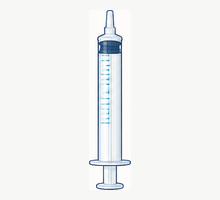
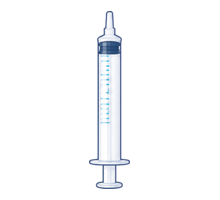
Polish syringe and favourites pagination

Changed region(s): [[0.4091, 0.03, 0.6, 0.96], [0.4909, 0.75, 0.5182, 0.78]]

diff --git a/src/App.svelte b/src/App.svelte
@@ -4,6 +4,7 @@
   import 'katex/dist/katex.min.css';
 
   const volumes = [10, 50, 100, 250, 500, 1000];
+  const favouritesPerPage = 6;
   const baseUrl = import.meta.env.BASE_URL;
   const storageKeys = {
     favourites: 'dosage.favourites.v2',
@@ -90,6 +91,11 @@
     String(favourite.medicationAmount) === String(medicationAmount) &&
     favourite.vialUnit === vialUnit &&
     String(favourite.vialVolume) === String(vialVolume)
+  );
+  $: favouritePageCount = Math.max(1, Math.ceil(favourites.length / favouritesPerPage));
+  $: visibleFavourites = favourites.slice(
+    favouritePage * favouritesPerPage,
+    (favouritePage + 1) * favouritesPerPage
   );
 
   onMount(() => {
@@ -198,7 +204,7 @@
     const next = favourites.filter((item) => item.id !== currentFavourite.id);
     if (write(storageKeys.favourites, next)) {
       favourites = next;
-      favouritePage = Math.min(favouritePage, Math.max(0, next.length - 1));
+      favouritePage = Math.min(favouritePage, Math.max(0, Math.ceil(next.length / favouritesPerPage) - 1));
       notice = 'Favourite removed from this phone.';
     }
   }
@@ -222,7 +228,7 @@
     const next = favourites.filter((item) => item.id !== id);
     if (write(storageKeys.favourites, next)) {
       favourites = next;
-      favouritePage = Math.min(favouritePage, Math.max(0, next.length - 1));
+      favouritePage = Math.min(favouritePage, Math.max(0, Math.ceil(next.length / favouritesPerPage) - 1));
     }
   }
 
@@ -490,8 +496,7 @@
           </div>
         {:else}
           <ul class="saved-list" aria-label="Saved favourites">
-            {#each favourites as favourite, index}
-              {#if index === favouritePage}
+            {#each visibleFavourites as favourite}
               <li>
                 <div>
                   <strong>{favourite.name}</strong>
@@ -502,14 +507,15 @@
                   <button class="danger-text" type="button" aria-label={`Delete ${favourite.name}`} onclick={() => deleteFavourite(favourite.id)}>Delete</button>
                 </div>
               </li>
-              {/if}
             {/each}
           </ul>
-          <div class="pager" aria-label="Favourite pages">
-            <button type="button" disabled={favouritePage === 0} onclick={() => favouritePage -= 1}>Previous</button>
-            <span>{favouritePage + 1} of {favourites.length}</span>
-            <button type="button" disabled={favouritePage === favourites.length - 1} onclick={() => favouritePage += 1}>Next</button>
-          </div>
+          {#if favouritePageCount > 1}
+            <div class="pager" aria-label="Favourite pages">
+              <button type="button" disabled={favouritePage === 0} onclick={() => favouritePage -= 1}>Previous</button>
+              <span>Page {favouritePage + 1} of {favouritePageCount}</span>
+              <button type="button" disabled={favouritePage === favouritePageCount - 1} onclick={() => favouritePage += 1}>Next</button>
+            </div>
+          {/if}
         {/if}
       </section>
     {:else}
@@ -800,7 +806,10 @@
   main > section:not(.mix-screen) .intro { flex: 0 0 auto; margin: 3px 0 9px; }
   .empty-state { min-height: 0; padding: 24px 12px; border-radius: 12px; }
   .saved-list, .history-list { min-height: 0; gap: 0; }
+  .saved-list { gap: 5px; }
   .saved-list li, .history-list li { padding: 12px; border-radius: 12px; }
+  .saved-list li > div:first-child { min-width: 0; }
+  .saved-list strong, .saved-list li > div:first-child span { overflow: hidden; text-overflow: ellipsis; white-space: nowrap; }
   .history-list p { margin: 10px 0 6px; }
   .pager { display: grid; grid-template-columns: 1fr auto 1fr; gap: 8px; align-items: center; margin-top: 8px; }
   .pager button { min-height: 44px; color: #076d69; background: #fff; border: 1px solid #72aaa5; border-radius: 9px; font-weight: 800; cursor: pointer; }

diff --git a/tests/e2e/003-local-records/003-local-records.spec.ts b/tests/e2e/003-local-records/003-local-records.spec.ts
@@ -81,5 +81,47 @@ test('favourites and history stay local without carrying an order forward', asyn
     ]
   });
 
+  const favouriteFixtures = Array.from({ length: 7 }, (_, index) => ({
+    id: `favourite-${index + 1}`,
+    name: `Saved medication ${index + 1}`,
+    medicationAmount: String(index + 1),
+    vialUnit: 'mg',
+    vialVolume: '1',
+    createdAt: new Date().toISOString()
+  }));
+  await page.evaluate((fixtures) => {
+    localStorage.setItem('dosage.favourites.v2', JSON.stringify(fixtures));
+  }, favouriteFixtures);
+  await page.reload();
+  await page.getByRole('button', { name: /Favourites/ }).click();
+
+  await steps.step('full-favourites-page', {
+    description: 'A favourites page uses the available space before offering pagination',
+    verifications: [
+      { spec: 'The first page shows six saved medications at once', check: async () => {
+        await expect(page.locator('.saved-list li')).toHaveCount(6);
+        await expect(page.locator('.saved-list')).toContainText('Saved medication 1');
+        await expect(page.locator('.saved-list')).toContainText('Saved medication 6');
+      } },
+      { spec: 'Paging reports two pages for seven favourites', check: async () => {
+        await expect(page.getByLabel('Favourite pages')).toContainText('Page 1 of 2');
+      } }
+    ]
+  });
+
+  await page.setViewportSize({ width: 320, height: 852 });
+  const narrowLayout = await page.evaluate(() => ({
+    width: document.documentElement.scrollWidth,
+    height: document.documentElement.scrollHeight,
+    viewportWidth: innerWidth,
+    viewportHeight: innerHeight
+  }));
+  expect(narrowLayout.width).toBeLessThanOrEqual(narrowLayout.viewportWidth + 1);
+  expect(narrowLayout.height).toBeLessThanOrEqual(narrowLayout.viewportHeight + 1);
+  await page.getByRole('button', { name: 'Next' }).click();
+  await expect(page.locator('.saved-list li')).toHaveCount(1);
+  await expect(page.locator('.saved-list')).toContainText('Saved medication 7');
+  await expect(page.getByLabel('Favourite pages')).toContainText('Page 2 of 2');
+
   steps.generateDocs();
 });

diff --git a/tests/e2e/002-containers-and-validation/002-containers-and-validation.spec.ts b/tests/e2e/002-containers-and-validation/002-containers-and-validation.spec.ts
@@ -33,6 +33,25 @@ test('containers, boundaries, and activity units remain safe', async ({ page }, 
         expect(await page.locator('.volume-grid button strong').allTextContents())
           .toEqual(['10 mL', '50 mL', '100 mL', '250 mL', '500 mL', '1000 mL']);
       } },
+      { spec: 'The syringe image has transparent corners instead of a rectangular background', check: async () => {
+        const alpha = await page.getByRole('button', { name: '10 mL', exact: true }).locator('img').evaluate((image) => {
+          if (!(image instanceof HTMLImageElement)) throw new Error('Missing syringe image');
+          const canvas = document.createElement('canvas');
+          canvas.width = image.naturalWidth;
+          canvas.height = image.naturalHeight;
+          const context = canvas.getContext('2d');
+          if (!context) throw new Error('Canvas unavailable');
+          context.drawImage(image, 0, 0);
+          const corners = [
+            context.getImageData(0, 0, 1, 1).data[3],
+            context.getImageData(canvas.width - 1, 0, 1, 1).data[3],
+            context.getImageData(0, canvas.height - 1, 1, 1).data[3],
+            context.getImageData(canvas.width - 1, canvas.height - 1, 1, 1).data[3]
+          ];
+          return corners;
+        });
+        expect(alpha).toEqual([0, 0, 0, 0]);
+      } },
       { spec: 'The flexible 500 mL bag is visibly wider than every other IV bag', check: async () => {
         const silhouettes = await page.locator('.volume-grid button').evaluateAll((buttons) => buttons.slice(1).map((button) => {
           const image = button.querySelector('img');

diff --git a/docs/PR_PREVIEW.md b/docs/PR_PREVIEW.md
@@ -14,6 +14,8 @@ This is an actual Playwright capture of the phone calculation review—not a des
 
 ![Filled favourite star on the main screen](https://github.com/anicolao/dosage/raw/refs/heads/agent/initial-dosage-spa/tests/e2e/003-local-records/screenshots/000-favourite-saved-phone.png)
 
+![Six-record favourites page](https://github.com/anicolao/dosage/raw/refs/heads/agent/initial-dosage-spa/tests/e2e/003-local-records/screenshots/003-full-favourites-page-phone.png)
+
 ## What changed
 
 - Added a phone-first Svelte SPA for one-vial dilution arithmetic.
@@ -23,7 +25,9 @@ This is an actual Playwright capture of the phone calculation review—not a des
 - Rendered vial concentration, prepared concentration, conversion factor, and administration volume with locally bundled KaTeX and accessible MathML.
 - Added generated container illustrations, product documentation, safety boundaries, and UX mockups.
 - Regenerated the IV icon family from the supplied bag reference: every bag now has flexible seams, a concave top, and twin ports, while the 500 mL silhouette is measurably wider than the other bags.
+- Removed the baked-in syringe tile background and validated transparent alpha at all four image corners.
 - Added a main-screen favourite toggle whose star fills gold, changes label, and exposes `aria-pressed="true"` whenever the current vial facts are saved.
+- Expanded favourites to six compact records per page, with paging controls shown only when a seventh record exists.
 - Added deterministic Playwright coverage with zero-pixel screenshot comparisons.
 - Reworked the calculator into a fixed-height, no-scroll phone layout with explicit mg/1 mL/mcg defaults, paged saved records, and a simultaneous KaTeX review panel whose single-line formulas must each be checked before the answer is revealed.
 - Added PR-gated E2E and GitHub Pages preview deployment under `/pr<PR number>/`.
@@ -34,10 +38,11 @@ This is an actual Playwright capture of the phone calculation review—not a des
 - mg vial → mcg order and reverse mcg vial → mg order;
 - equivalent-dose invariants and detailed KaTeX equations;
 - all 10/50/100/250/500/1000 mL containers;
+- transparent syringe corners with no rectangular image background;
 - pixel-level verification that the 500 mL IV-bag silhouette is wider than every other bag icon;
 - excessive-dose and impossible-final-volume blocking;
 - non-convertible activity-unit handling;
-- favourite and history persistence/deletion, including the filled-star main-screen state after save and reload;
+- favourite and history persistence/deletion, including the filled-star main-screen state, six-record favourite pages, and seven-record pagination;
 - acknowledgement requirements and no dose carry-forward;
 - explicit mg/1 mL/mcg defaults, no final-volume default, value-preserving unit changes, and answer gating until every review step is checked;
 - same-origin GET-only operation with no runtime fetch/XHR/beacon;

diff --git a/MVP_UX_DESIGN.md b/MVP_UX_DESIGN.md
@@ -22,7 +22,7 @@ The first section asks for medication name, amount in the vial, vial unit, and v
 
 ### 2. Final prepared volume
 
-Six image cards show a 10 mL syringe and 50/100/250/500/1000 mL flexible IV bags. The bag illustrations use soft side seams, a shallow concave top, and two bottom ports instead of a rigid bottle silhouette. The 500 mL bag is intentionally broader than the 50, 100, 250, and 1000 mL bags, matching the supplied real-container reference. The selected card has a high-contrast border, tinted background, check state, and `aria-pressed="true"`; selection never relies on colour alone.
+Six image cards show a 10 mL syringe and 50/100/250/500/1000 mL flexible IV bags. Every icon uses a transparent or visually transparent background so no rectangular image tile appears inside its card. The bag illustrations use soft side seams, a shallow concave top, and two bottom ports instead of a rigid bottle silhouette. The 500 mL bag is intentionally broader than the 50, 100, 250, and 1000 mL bags, matching the supplied real-container reference. The selected card has a high-contrast border, tinted background, check state, and `aria-pressed="true"`; selection never relies on colour alone.
 
 ![Generated illustration of the supported dilution containers](./static/images/dilution-containers.png)
 
@@ -93,7 +93,7 @@ No warning is needed when the installed app is healthy offline. The header conti
 
 ## Favourites
 
-A favourite card contains name, medication amount/unit, vial volume, “Use,” edit, and delete. One card is shown at a time with Previous/Next paging so saved content never creates a scrolling page. “Use” opens a fresh mix with no ordered dose. On the calculator, an empty star becomes filled gold as soon as the current medication name and vial facts are saved; its accessible pressed state and label communicate the same status without relying on colour. Pressing the filled star removes that favourite. Duplicate names are allowed because concentration disambiguates them, while the star prevents an exact duplicate.
+A favourite card contains name, medication amount/unit, vial volume, “Use,” edit, and delete. Up to six compact cards fill the available phone panel before Previous/Next paging appears; one to six records need no paging controls and the page never scrolls. “Use” opens a fresh mix with no ordered dose. On the calculator, an empty star becomes filled gold as soon as the current medication name and vial facts are saved; its accessible pressed state and label communicate the same status without relying on colour. Pressing the filled star removes that favourite. Duplicate names are allowed because concentration disambiguates them, while the star prevents an exact duplicate.
 
 Never use look-alike/sound-alike colour coding or infer a drug identity. Names are user-entered display labels only.
 

diff --git a/README.md b/README.md
@@ -16,7 +16,7 @@ The current repository contains:
 
 The calculation review uses locally bundled KaTeX to show dimensional analysis and accessible MathML. No equation, font, or input is fetched from a third party.
 
-The calculator is a fixed-height phone interface with no page or panel scrolling. It defaults the vial unit to mg, vial volume to 1 mL, and ordered-dose unit to mcg while leaving medication amounts, doses, and final prepared volume unset. The answer stays hidden until every detailed, single-line equation is individually checked and the review is completed. Its flexible IV-bag illustrations preserve the distinct real-world silhouettes, including a visibly broader 500 mL bag. Saving the entered vial facts as a favourite immediately fills the main-screen star; favourites and history use explicit paging.
+The calculator is a fixed-height phone interface with no page or panel scrolling. It defaults the vial unit to mg, vial volume to 1 mL, and ordered-dose unit to mcg while leaving medication amounts, doses, and final prepared volume unset. The answer stays hidden until every detailed, single-line equation is individually checked and the review is completed. Its transparent syringe and flexible IV-bag illustrations preserve the distinct real-world silhouettes, including a visibly broader 500 mL bag. Saving the entered vial facts as a favourite immediately fills the main-screen star; the favourites screen fills each page with up to six records before showing paging controls.
 
 ![Actual Playwright preview of the calculation review](./docs/pr-preview.png)
 

diff --git a/tests/e2e/003-local-records/README.md b/tests/e2e/003-local-records/README.md
@@ -28,3 +28,12 @@ Medication label facts can be reused, while ordered doses and confirmations must
 
 - [x] The favourite is deleted
 - [x] Mix remains available as the primary navigation destination
+
+## A favourites page uses the available space before offering pagination
+
+![A favourites page uses the available space before offering pagination](./screenshots/003-full-favourites-page-phone.png)
+
+**Verifications:**
+
+- [x] The first page shows six saved medications at once
+- [x] Paging reports two pages for seven favourites

diff --git a/tests/e2e/002-containers-and-validation/README.md b/tests/e2e/002-containers-and-validation/README.md
@@ -9,6 +9,7 @@ Every supported final volume calculates deterministically and invalid inputs rem
 **Verifications:**
 
 - [x] Only 10, 50, 100, 250, 500, and 1000 mL are offered
+- [x] The syringe image has transparent corners instead of a rectangular background
 - [x] The flexible 500 mL bag is visibly wider than every other IV bag
 - [x] At 1000 mL final volume the calculated volume is 200 mL
 
